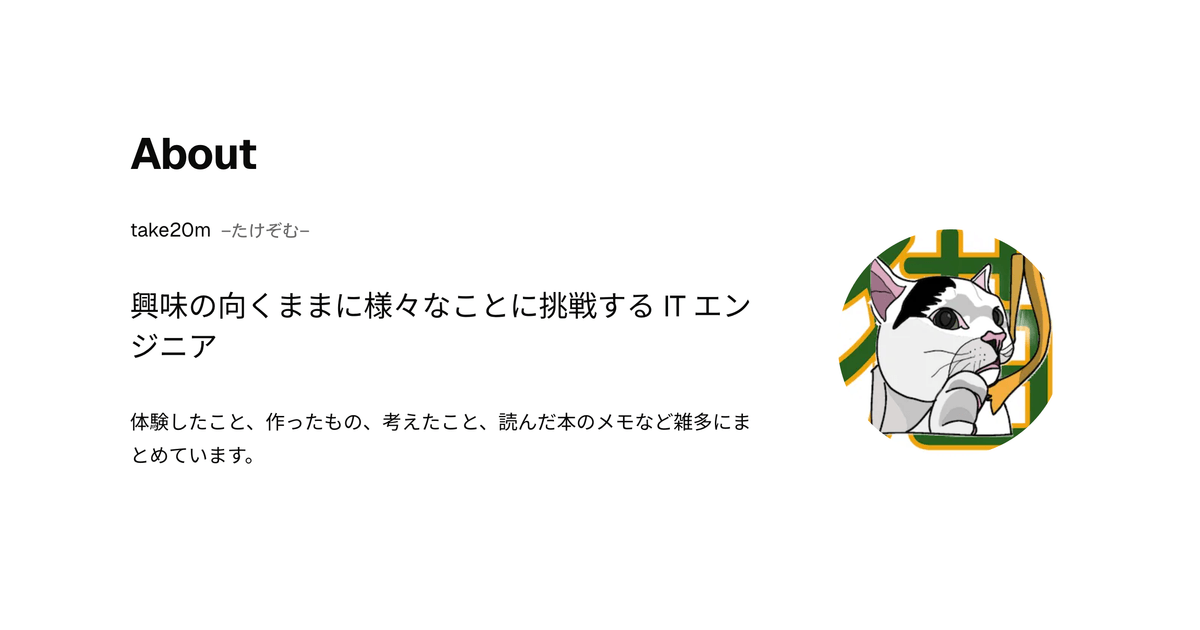
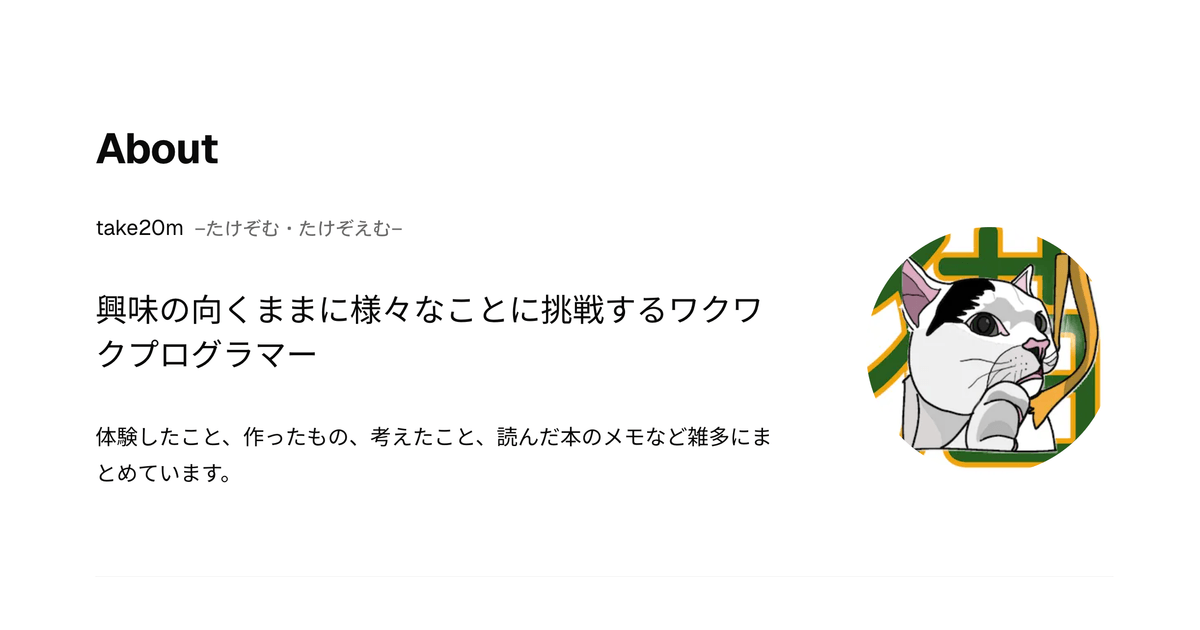
📝 コンテンツを微調整

diff --git a/src/data/site.ts b/src/data/site.ts
@@ -22,9 +22,9 @@ export interface SiteData {
 export const site: SiteData = {
   name: "take20m",
   handle: "@take20m",
-  pronunciation: "たけぞむ",
+  pronunciation: "たけぞむ・たけぞえむ",
   role: "IT エンジニア",
-  tagline: "興味の向くままに様々なことに挑戦するプログラマー",
+  tagline: "興味の向くままに様々なことに挑戦するワクワクプログラマー",
   description:
     "take20mのポートフォリオサイト。体験したこと、作ったもの、考えたこと、読んだ本のメモなど雑多にまとめています。",
   url: "https://take20m.dev",
